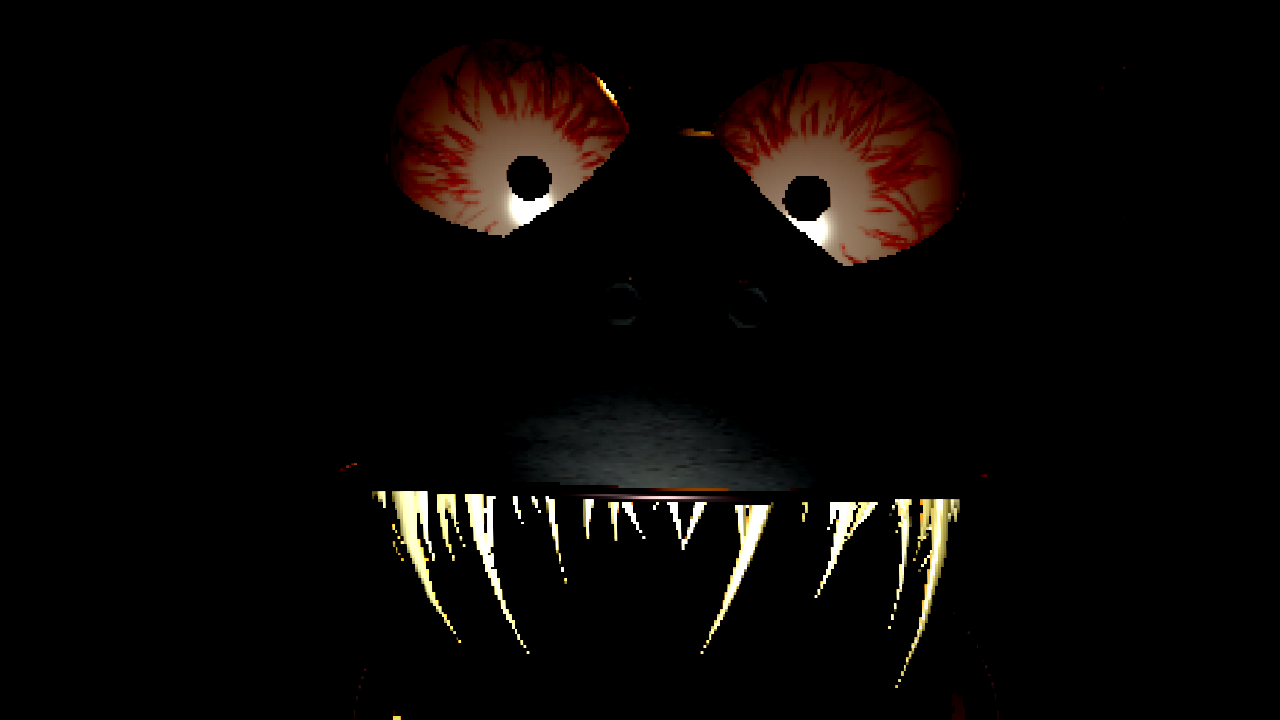
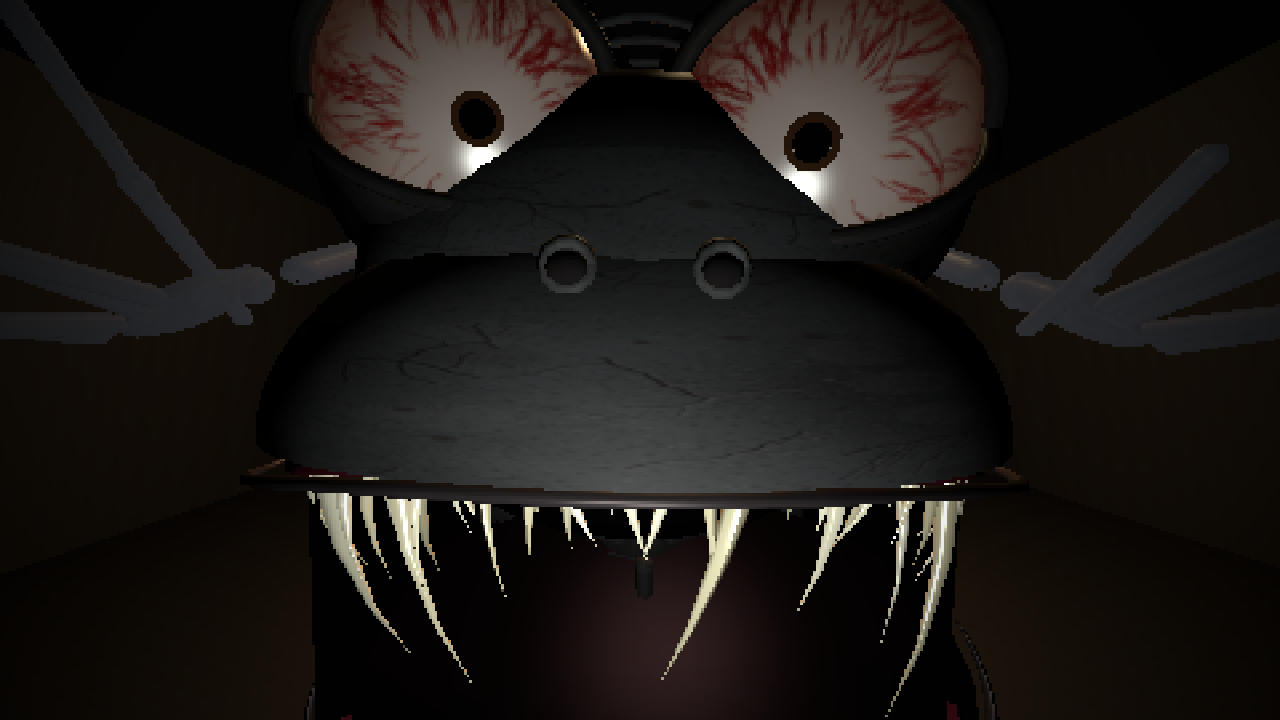
Froggy: rough with doors and lids, and feet that stay on the floor
- Doors and lids he works move on a spring: they rattle against the catch
  while he hauls (heard across the room), fly open past their stop and bounce
  back, and are slammed shut again at the end of his check with a heavy slam.
  When a spot opens and when you can be found are unchanged.
- His body goes with it: hand on the handle throughout (the grip rides the
  moving part), the other hand braced on a locker while he hauls, rocked back
  by the yank, leaning in with his face turned into it, his weight thrown
  behind the slam.
- A planted foot that points its toes lifts the heel instead of sinking the
  toes, and the foot is levelled whatever the shin is doing.
- The horror suite allows the new rattle and slam sounds.

Claude-Session: https://claude.ai/code/session_014fZqzLJ4fL4whRPBpUnjrb

diff --git a/src/scenes2d/HideRoom3D.ts b/src/scenes2d/HideRoom3D.ts
@@ -591,6 +591,8 @@ const spoken = (lines: Array<[string, number]>, zone: number): Array<[string, nu
 /** How far his footsteps and the lids carry.  Silence is doing the work. */
 const EARSHOT = 22;
 const OPEN_EARSHOT = 30;
+/** How far through his check of a door or a lid he slams it shut again. */
+const SLAM_AT = 0.84;
 /** A spot left alone this long is the next one he goes to. */
 const STALE_S = 24;
 /**
@@ -712,6 +714,15 @@ interface Spot3D {
   /** 0 shut, 1 fully open. */
   open: number;
   opening: boolean;
+  /**
+   * How it moves when HE works it: on a spring, not an ease -- yanked open
+   * past where it stops and bouncing back, slammed shut and jumping in its
+   * frame -- with `rattle` shaking it against its catch before it gives, and
+   * `slammed` putting it shut again while his check is still running.
+   */
+  openV: number;
+  rattle: number;
+  slammed: boolean;
   /** Seconds since he last looked inside this one. */
   sinceChecked: number;
   /**
@@ -834,6 +845,10 @@ export class HideRoom3D extends Phaser.Scene {
   private readonly solidsNear: Solid[] = [];
   /** How hard his eyes are catching the light, set while he looks under a bed. */
   private peekGlare = 0;
+  /** A running clock for the doors he rattles. */
+  private hingeT = 0;
+  /** When the next rattle is heard, while he hauls on something shut. */
+  private rattleIn = 0;
   private hiding: Spot3D | null = null;
 
   private caughtT = 0;
@@ -1554,7 +1569,7 @@ export class HideRoom3D extends Phaser.Scene {
     const ext = spotExtent({ x, z, rot, kind });
     // how tall it stands, shut: the top of what he must not put his head through
     const top = new THREE.Box3().setFromObject(group).max.y;
-    return { x, z, rot, kind, skin, hw: ext.hw, hd: ext.hd, top, checkedOn: -1, hinge, open: 0, opening: false, sinceChecked: 0, grips, lever: built.lever };
+    return { x, z, rot, kind, skin, hw: ext.hw, hd: ext.hd, top, checkedOn: -1, hinge, open: 0, opening: false, openV: 0, rattle: 0, slammed: false, sinceChecked: 0, grips, lever: built.lever };
   }
 
   // ------------------------------------------------------------------- input
@@ -2811,13 +2826,53 @@ export class HideRoom3D extends Phaser.Scene {
     // moving when you arrive is walking onto a set.
     this.secret?.tick(dt);
 
+    // HIS HANDS ON THEM ARE NOT GENTLE.  A door or a lid he works is on a
+    // spring rather than an ease: it rattles against its catch while he
+    // hauls on it, flies open when it gives -- past where it stops, and back
+    // off the stop -- and is slammed shut hard enough to jump in its frame.
+    this.hingeT += dt;
     for (const c of this.spots) {
       if (this.mode === 'seeking') c.sinceChecked += dt;
-      const want = c.opening ? 1 : 0;
-      c.open += (want - c.open) * Math.min(1, dt * 6);
+      // (only the one he has his hands on rattles)
+      if (c !== this.targetSpot || this.fMode !== 'openSpot') c.rattle = 0;
+      const want = c.opening && !c.slammed ? 1 : 0;
+      const shutting = want < c.open;
+      // stiff and springy going open; stiffer still slammed; a slow settle
+      // for anything else (a round ending with a door still open)
+      const k = shutting ? (c.slammed ? 620 : 40) : 300;
+      const zeta = shutting && !c.slammed ? 1 : 0.3;
+      const was = c.open;
+      const steps = Math.max(1, Math.ceil(dt / (1 / 120)));
+      const h = dt / steps;
+      let hit = 0;
+      for (let i = 0; i < steps; i++) {
+        c.openV += (k * (want - c.open) - 2 * zeta * Math.sqrt(k) * c.openV) * h;
+        c.open += c.openV * h;
+        // against the frame: it stops dead and comes back off it
+        if (c.open < 0) {
+          hit = Math.max(hit, -c.openV);
+          c.open = 0;
+          c.openV = c.openV < -1 ? -c.openV * 0.3 : 0;
+        }
+        // and against its own stop at the other end
+        if (c.open > 1.1) {
+          c.open = 1.1;
+          c.openV = -Math.abs(c.openV) * 0.35;
+        }
+      }
+      if (c.slammed && was > 0.02 && hit > 2) {
+        this.play('spot_slam', this.earshot(c.x, c.z, OPEN_EARSHOT, 0.3));
+      }
+      // Hauled at while it is still shut: it jerks against its catch, never
+      // into the frame -- out a crack, and banged back.
+      const jerk =
+        c.rattle *
+        Math.max(0, Math.sin(this.hingeT * 47) * 0.6 + Math.sin(this.hingeT * 83 + 1.3) * 0.4) *
+        0.05;
+      const a = c.open + jerk;
       // A lid tips back; a door swings out on its side hinge.
-      if (c.kind === 'chest' || c.kind === 'bed') c.hinge.rotation.x = -c.open * 1.5;
-      else c.hinge.rotation.y = c.open * 1.9;
+      if (c.kind === 'chest' || c.kind === 'bed') c.hinge.rotation.x = -a * 1.5;
+      else c.hinge.rotation.y = a * 1.9;
       // the lever goes down first and springs back once the door is moving
       if (c.lever) {
         const turn = c.opening ? Math.min(1, c.open / 0.12) * (1 - Math.min(1, Math.max(0, (c.open - 0.35) / 0.3))) : 0;
@@ -3276,6 +3331,24 @@ export class HideRoom3D extends Phaser.Scene {
         // beside it.  The blanket stays where it is.
         const lidAt = total * (spot.kind === 'bed' ? 0.58 : 0.53);
         spot.opening = spot.kind !== 'bed' && this.fTimer < lidAt;
+        // ROUGH.  From the moment his hand closes on it until it gives, he
+        // hauls on it and it rattles against its catch -- heard as far as his
+        // footsteps are.  And when he has looked, he slams it: shut, hard,
+        // while he is still stood at it.
+        if (spot.kind !== 'bed') {
+          const k = 1 - this.fTimer / total;
+          const lidK = 1 - lidAt / total;
+          const hauling = k > 0.34 && k < lidK;
+          spot.rattle = hauling ? Math.min(1, (k - 0.34) / 0.05) : 0;
+          if (hauling) {
+            this.rattleIn -= dt;
+            if (this.rattleIn <= 0) {
+              this.rattleIn = 0.16 + Math.random() * 0.08;
+              this.play('door_rattle', this.earshot(spot.x, spot.z, EARSHOT, 0.08));
+            }
+          }
+          spot.slammed = k >= SLAM_AT;
+        }
         if (before >= lidAt && this.fTimer < lidAt) {
           this.play('spot_open', this.earshot(spot.x, spot.z, OPEN_EARSHOT, 0.3));
           spot.sinceChecked = 0;
@@ -3293,6 +3366,8 @@ export class HideRoom3D extends Phaser.Scene {
       if (this.fTimer <= 0) {
         if (this.targetSpot) {
           this.targetSpot.opening = false;
+          this.targetSpot.slammed = false;
+          this.targetSpot.rattle = 0;
           this.targetSpot.checkedOn = this.sweep;
         }
         this.targetSpot = null;
@@ -3729,17 +3804,37 @@ export class HideRoom3D extends Phaser.Scene {
     const k = 1 - Phaser.Math.Clamp(this.fTimer / total, 0, 1);
     const ss = THREE.MathUtils.smoothstep;
     const size = this.monster.size;
-    const reach = ss(k, 0.02, 0.3) * (1 - ss(k, 0.8, 0.98));
-    const grip = ss(k, 0.22, 0.36) * (1 - ss(k, 0.78, 0.9));
-    const twist = ss(k, 0.36, 0.5) * (1 - 0.7 * ss(k, 0.55, 0.7)) * 0.7;
+    // The room's own beats for it: the lid or door gives with 53% of the time
+    // still to run (see the timer), and he slams it at SLAM_AT.
+    const lidK = 1 - 0.53;
+    // His hand stays on it from the moment it arrives until he has slammed
+    // it: he opens it, and he shuts it, with the same grip.
+    const reach = ss(k, 0.02, 0.3) * (1 - ss(k, 0.9, 0.99));
+    const grip = ss(k, 0.22, 0.34) * (1 - ss(k, 0.9, 0.96));
+    const twist = ss(k, 0.36, 0.44) * (1 - 0.7 * ss(k, 0.55, 0.7)) * 0.7;
+    // HAULING on it while it is still shut: short, hard jerks, out of rhythm.
+    const hauling = k > 0.34 && k < lidK ? Math.min(1, (k - 0.34) / 0.04) : 0;
+    const t = this.hingeT;
+    const heave = hauling * (Math.max(0, Math.sin(t * 47)) * 0.6 + Math.max(0, Math.sin(t * 83 + 1.3)) * 0.4);
+    // THE YANK when it gives: he is thrown back off it for an instant.
+    const yank = Math.max(0, 1 - Math.abs(k - lidK - 0.02) / 0.05);
+    // THE SLAM: he throws his weight in behind it.
+    const slam = Math.max(0, 1 - Math.abs(k - SLAM_AT - 0.01) / 0.045);
     const g0 = spot.grips[0].getWorldPosition(new THREE.Vector3());
     // Close enough to reach it: from where he stopped, the step that puts the
     // handle about an arm's comfortable length in front of him.
     const dist = Math.hypot(g0.x - this.froggy.x, g0.z - this.froggy.y);
     const want = Phaser.Math.Clamp(dist - (spot.kind === 'chest' ? 0.85 * CHEST_SCALE : 0.95) * size, 0, 1.4);
-    const step = want * ss(k, 0, 0.25) * (1 - ss(k, 0.84, 1));
+    // (rocked back by the heave and the yank, forward into the slam)
+    const step = want * ss(k, 0, 0.25) * (1 - ss(k, 0.9, 1)) - (heave * 0.05 + yank * 0.16 - slam * 0.1) * size;
     const low = spot.kind === 'chest';
-    const lean = (low ? 0.95 : 0.7) * reach + 0.35 * ss(k, 0.55, 0.7) * (1 - ss(k, 0.8, 0.95));
+    const lean =
+      (low ? 0.95 : 0.7) * reach + 0.35 * ss(k, 0.55, 0.7) * (1 - ss(k, 0.8, 0.95)) -
+      yank * 0.35 + slam * 0.3 + heave * 0.12;
+    // out of the spot, toward him, flat: the way a pull goes
+    const out = new THREE.Vector3(this.froggy.x - spot.x, 0, this.froggy.y - spot.z).normalize();
+    const pulled = (at: THREE.Vector3): THREE.Vector3 =>
+      at.clone().addScaledVector(out, heave * 0.035 * size).setY(at.y + (low ? heave * 0.025 * size : 0));
     const hands: [HandGoal | null, HandGoal | null] = [null, null];
     if (spot.kind === 'chest') {
       // both hands, under the lid's front edge; which is which by where they
@@ -3747,8 +3842,8 @@ export class HideRoom3D extends Phaser.Scene {
       const [a, b] = spot.grips.map((o) => o.getWorldPosition(new THREE.Vector3()));
       const right = new THREE.Vector3(Math.cos(this.froggyYaw), 0, -Math.sin(this.froggyYaw));
       const aRight = a.clone().sub(b).dot(right) > 0;
-      hands[aRight ? 0 : 1] = { at: a, weight: reach, grip };
-      hands[aRight ? 1 : 0] = { at: b, weight: reach, grip };
+      hands[aRight ? 0 : 1] = { at: pulled(a), weight: reach, grip };
+      hands[aRight ? 1 : 0] = { at: pulled(b), weight: reach, grip };
     } else {
       // one hand: the one on the handle's side of him, chosen once
       if (this.spotHand === null) {
@@ -3756,13 +3851,23 @@ export class HideRoom3D extends Phaser.Scene {
         const rel = g0.clone().sub(new THREE.Vector3(this.froggy.x, 0, this.froggy.y));
         this.spotHand = rel.dot(right) > 0 ? 0 : 1;
       }
-      hands[this.spotHand] = { at: g0, weight: reach, grip, twist };
+      // and the other one flat on the side of it, bracing, while he hauls
+      const brace = hauling > 0 ? new THREE.Vector3(spot.x, 1.3, spot.z).addScaledVector(out, Math.max(spot.hw, spot.hd) + 0.02) : null;
+      if (brace) {
+        const side = new THREE.Vector3(out.z, 0, -out.x).multiplyScalar((this.spotHand === 0 ? 1 : -1) * Math.min(spot.hw, spot.hd) * 0.8);
+        brace.add(side);
+      }
+      hands[this.spotHand] = { at: pulled(g0), weight: reach, grip, twist };
+      hands[1 - this.spotHand] = brace ? { at: brace, weight: hauling * 0.9, grip: 0.15 } : null;
     }
     // and, once it is open, he sinks at the knees to bring his face down to
     // the opening and looks in -- a door is half his height
     const sink = (low ? 0.35 : 0.55) * ss(k, 0.5, 0.66) * (1 - ss(k, 0.8, 0.97));
-    const look = k > 0.5 ? new THREE.Vector3(spot.x, low ? 0.4 : 1.0, spot.z) : null;
-    return { step, lean, sink, hands, look };
+    const inside = new THREE.Vector3(spot.x, low ? 0.4 : 1.0, spot.z);
+    const look = k > 0.5 ? inside.clone() : null;
+    // his face into it too, not only his eyes, while it is open
+    const faceK = ss(k, 0.52, 0.6) * (1 - ss(k, 0.78, 0.84)) * 0.8;
+    return { step, lean, sink, hands, look, faceTo: inside, faceK, jolt: heave * 0.5 + yank + slam };
   }
 
   /**
@@ -4588,6 +4693,8 @@ export class HideRoom3D extends Phaser.Scene {
     // between them; the neck is lifted back against the fold so the face
     // comes up level at you, which is the one thing this scene is for.
     if (this.waking) m.twitchHead(this.twitch.p - WAKE_NECK_LIFT, this.twitch.y, this.twitch.r);
+    // the heave, the yank and the slam go through his head as well
+    else if (act.jolt) m.twitchHead(-act.jolt * 0.07, Math.sin(this.hingeT * 61) * act.jolt * 0.05, Math.sin(this.hingeT * 37) * act.jolt * 0.04);
     // ---- AND THE SAME POSE, DOWN THE HOLE.  The enclosure under the secret
     // room's glass is this room, so the thing in it is this model: one hunt,
     // drawn twice, rather than two hunts that have to be kept in step.

diff --git a/src/three/froggyMonster.ts b/src/three/froggyMonster.ts
@@ -334,6 +334,8 @@ const SHIN = 0.48;
 const SOLE = 0.095;
 /** Where the hip joints are built, over the soles, in model units. */
 const HIP_Y = 1.02;
+/** Ankle to the tips of the toes, forward: how far they drop as the foot points. */
+const TOE_REACH = 0.31;
 /**
  * Hip joint over the ankle, squatting, in model units: the knees folded right
  * up, and on these legs his face at about the height of the gap under a bed.
@@ -1502,6 +1504,9 @@ export class FroggyMonster {
     for (let i = 0; i < 2; i++) {
       footX[i] *= moving;
       footY[i] *= moving;
+      // Toes down means the HEEL is up, not the toes through the boards: the
+      // ankle rides up by what the long toes drop.
+      footY[i] = Math.max(footY[i], TOE_REACH * Math.sin(Math.max(0, ank[i] * moving)));
     }
     // THE HIPS sit as high as the planted feet allow -- never higher, or a
     // foot would leave the floor, and never so low a knee has nothing left --
@@ -1559,7 +1564,7 @@ export class FroggyMonster {
     // doing above it; pointed as it leaves and as it lands.  Let go of on a
     // climb -- there is no floor to be level with halfway up a cupboard.
     const level = (i: number) =>
-      THREE.MathUtils.clamp(-(this.legs[i].rotation.x + this.knees[i].rotation.x - this.climbNow * 1.1), -0.55 - cr * 0.7, 0.55 + cr * 0.7) *
+      THREE.MathUtils.clamp(-(this.legs[i].rotation.x + this.knees[i].rotation.x - this.climbNow * 1.1), -1.3, 1.3) *
       (1 - this.climbNow);
     this.ankles[0].rotation.x = level(0) + ank[0] * (1 - cr);
     this.ankles[1].rotation.x = level(1) + ank[1] * (1 - cr);

diff --git a/src/core/audio.ts b/src/core/audio.ts
@@ -1063,6 +1063,16 @@ class AudioManager {
       case 'door_rattle':
         for (let i = 0; i < 4; i++) noise(0.06, 0.11, 3000, i * 0.11);
         break;
+      // A door or a lid SLAMMED shut by something that wants you to hear it:
+      // the body of it hitting the frame, a clang off the metal, and the
+      // whole thing shaking in its hinges for a moment after.
+      case 'spot_slam':
+        noise(0.09, 0.3, 380);
+        beep(62, 0.2, 0.2, 'sine');
+        beep(410, 0.09, 0.07, 'square', 0.01);
+        beep(1230, 0.06, 0.04, 'square', 0.015);
+        for (let i = 0; i < 3; i++) noise(0.04, 0.07 - i * 0.02, 2400, 0.1 + i * 0.07);
+        break;
       case 'door_creak':
         for (let i = 0; i < 14; i++) beep(180 + i * 22 + Math.random() * 40, 0.14, 0.028, 'sawtooth', i * 0.1);
         break;
@@ -1552,6 +1562,7 @@ export type SfxName =
   | 'lock_click'
   | 'key_turn'
   | 'door_rattle'
+  | 'spot_slam'
   | 'door_creak'
   | 'drip'
   | 'bulb_flicker'
